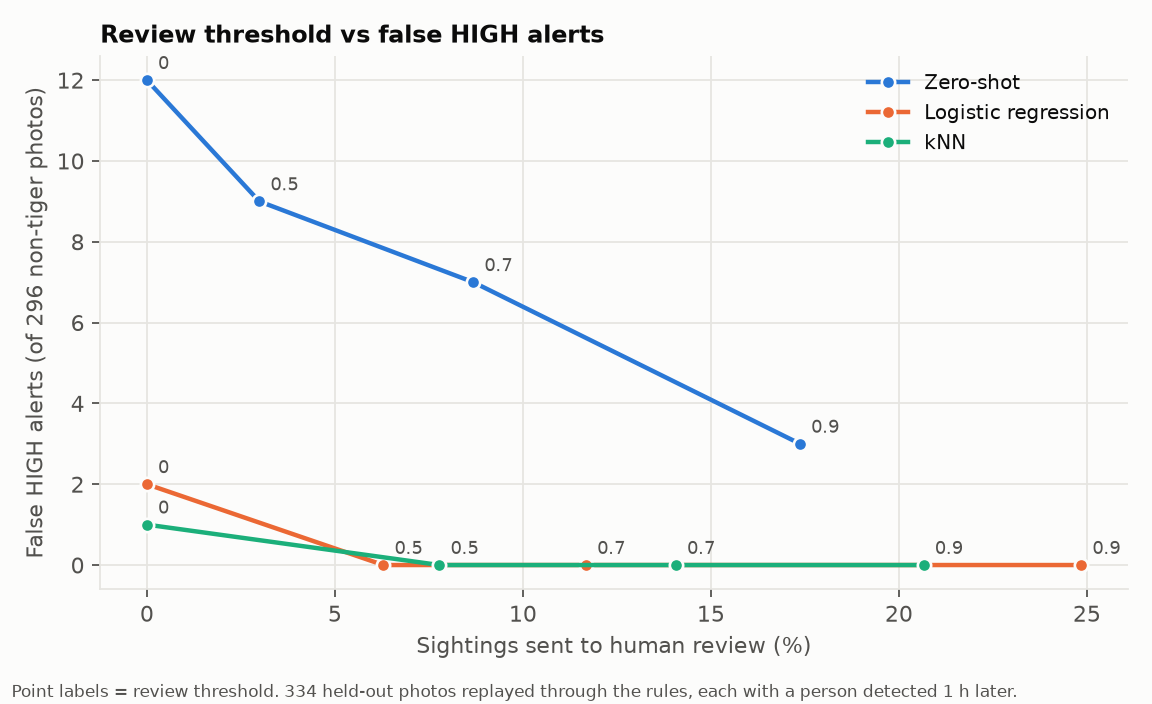
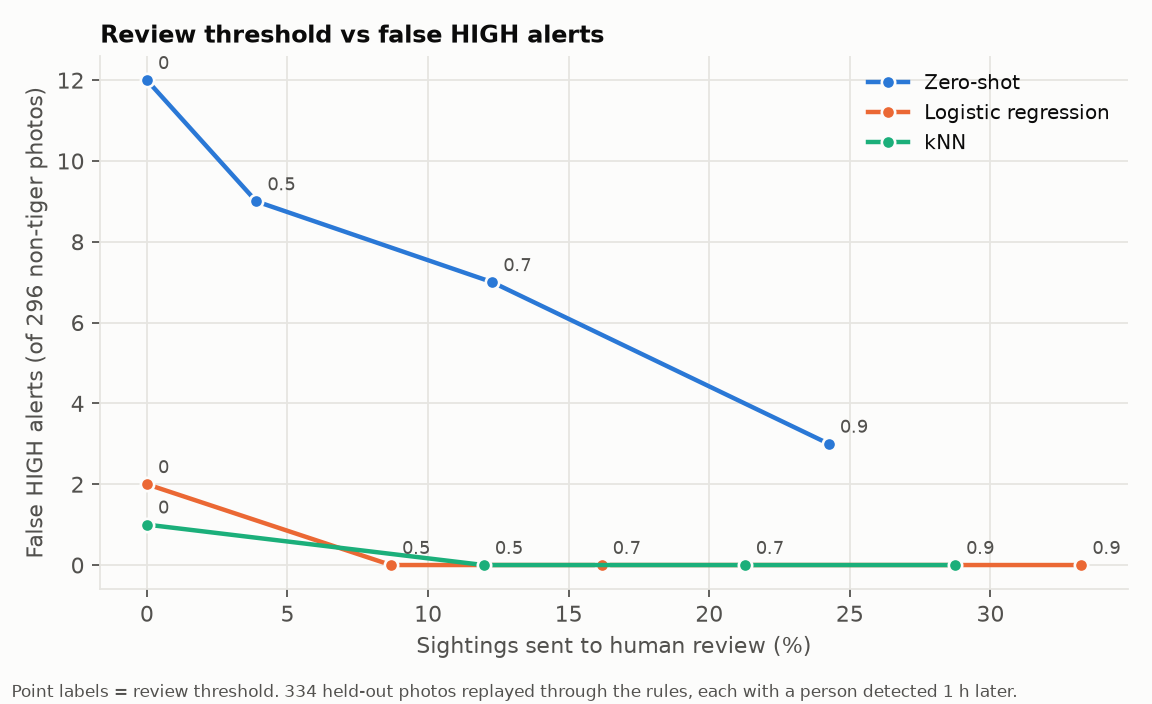
Wildlife project: blind-spot fix results (rule C4), updated alert trade-off chart

diff --git a/projects/wildlife-intelligence/index.html b/projects/wildlife-intelligence/index.html
@@ -228,7 +228,7 @@
 
   <h2>Second Result: From Sightings to Alerts</h2>
   <p>
-    A sighting only matters if someone acts on it. The reasoning layer is a set of <strong>17 rules over the knowledge graph</strong>.
+    A sighting only matters if someone acts on it. The reasoning layer is a set of <strong>18 rules over the knowledge graph</strong>.
     They decide whether a sighting needs an alert, how urgent it is, or whether a person should check it first. Every alert explains
     which rule fired and why.
   </p>
@@ -245,22 +245,24 @@
   <div class="stats">
     <div class="stat"><div class="sv">12</div><div class="sl">false HIGH alerts from zero-shot species ID (5 were tapirs called tigers)</div></div>
     <div class="stat"><div class="sv">0</div><div class="sl">false HIGH alerts from the trained classifier with human review</div></div>
-    <div class="stat"><div class="sv">6%</div><div class="sl">of sightings sent to a human to get there</div></div>
-    <div class="stat"><div class="sv">15</div><div class="sl">scenario tests; one caught a bug that had silently disabled two rules</div></div>
+    <div class="stat"><div class="sv">9%</div><div class="sl">of sightings sent to a human to get there</div></div>
+    <div class="stat"><div class="sv">17</div><div class="sl">scenario tests; one caught a bug that had silently disabled two rules</div></div>
   </div>
-  <img src="alert_tradeoff.png" alt="Line chart of false HIGH alerts against the share of sightings sent to human review. Zero-shot falls from 12 false alerts at 0% review to 3 at 17%. Logistic regression and kNN start at 2 and 1 and reach 0 at about 6 to 8% review." style="width:100%;border-radius:10px;border:1px solid var(--border);margin:1rem 0"/>
+  <img src="alert_tradeoff.png" alt="Line chart of false HIGH alerts against the share of sightings sent to human review. Zero-shot falls from 12 false alerts at 0% review to 3 at 24%. Logistic regression and kNN start at 2 and 1 and reach 0 at about 9 to 12% review." style="width:100%;border-radius:10px;border:1px solid var(--border);margin:1rem 0"/>
 
   <div class="finding">
     <div class="fk">Confidently wrong</div>
     <div class="ft">A review threshold can't catch confident mistakes</div>
     <div class="fd">Sending low-confidence sightings to a person barely helped zero-shot. 22% of its mistakes came with at least 90% confidence,
-    against 3% for the trained classifier. Even with 17% of sightings reviewed, zero-shot still raised 3 false HIGH alerts.</div>
+    against 3% for the trained classifier. Even with a quarter of sightings reviewed, zero-shot still raised 3 false HIGH alerts.</div>
   </div>
   <div class="finding">
-    <div class="fk">My own blind spot</div>
-    <div class="ft">A tiger read as a wild boar slipped through</div>
-    <div class="fd">I only sent uncertain predictions of <em>threatened</em> species to review. A tiger misread as a wild boar, at just 34%
-    confidence, passed silently, because wild boar isn't threatened. The next design change is to review when the runner-up species is threatened too.</div>
+    <div class="fk">My own blind spot, found and fixed</div>
+    <div class="ft">A tiger read as a wild boar slipped through, until one more rule</div>
+    <div class="fd">I first sent only uncertain predictions of <em>threatened</em> species to review. A tiger misread as a wild boar, at just 34%
+    confidence, passed silently, because wild boar isn't threatened. I added a rule: if the classifier is unsure <em>and</em> its second guess is threatened,
+    a person checks. For the trained classifier, silently missed tigers fell from 1 to 0, unreviewed mistakes from 12 to 7, and the share of species errors
+    caught by review rose from 38% to 55%. The cost: 9% of sightings reviewed instead of 6%. Zero-shot gained almost nothing, because its mistakes are confident.</div>
   </div>
   <div class="finding">
     <div class="fk">Protecting the animals</div>
@@ -370,7 +372,7 @@
     <div class="progress-item"><span class="check done">✓</span> Knowledge-based recommender with explanations + trail suggestions (unit-tested)</div>
     <div class="progress-item"><span class="check wip">~</span> NLLB-200 translation: module and test set built, first check run; full evaluation needs reference translations</div>
     <div class="progress-item"><span class="check done">✓</span> Experiment: zero-shot vs linear probe vs kNN on held-out camera locations, with confusion matrices, few-shot curve and ablations</div>
-    <div class="progress-item"><span class="check done">✓</span> Rule-based alerts in SPARQL (17 rules, 15 scenario tests), plus replay of real camera predictions through the rules</div>
+    <div class="progress-item"><span class="check done">✓</span> Rule-based alerts in SPARQL (18 rules, 17 scenario tests), plus replay of real camera predictions through the rules</div>
     <div class="progress-item"><span class="check done">✓</span> Recommender comparison: popularity, knowledge-based, collaborative (ALS), content-based (taxonomy and BioCLIP) and a switching hybrid, on held-out 2026 observers</div>
     <div class="progress-item"><span class="check todo">○</span> Property graph + embedding KG link prediction (TransE vs another model)</div>
     <div class="progress-item"><span class="check todo">○</span> Integration loop and interactive demo</div>
